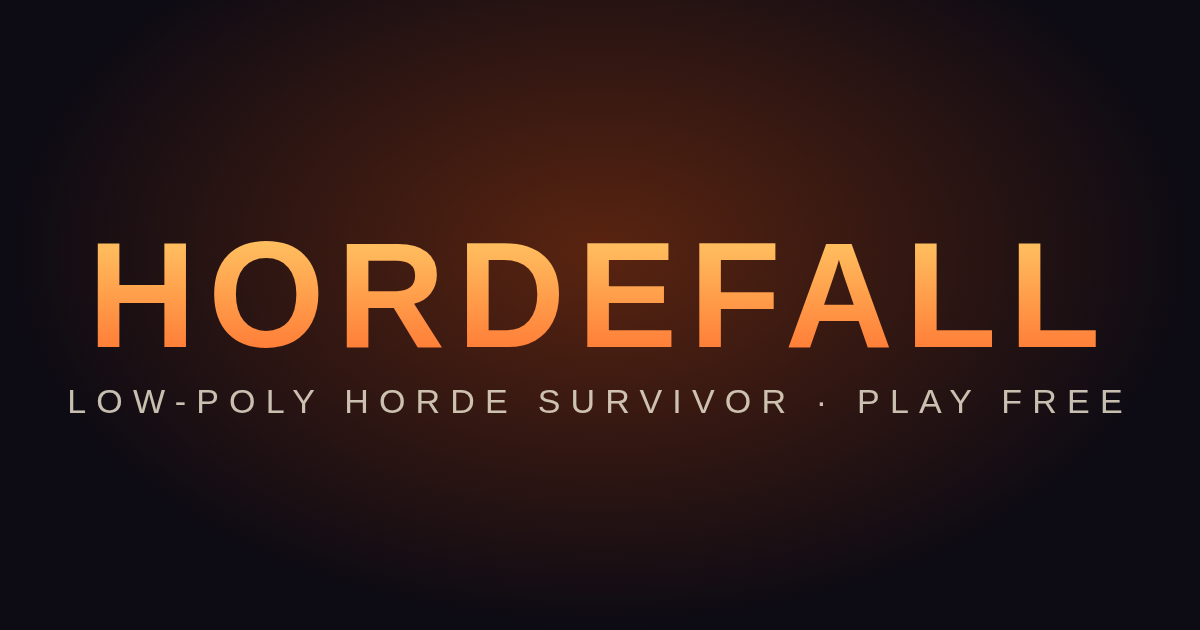
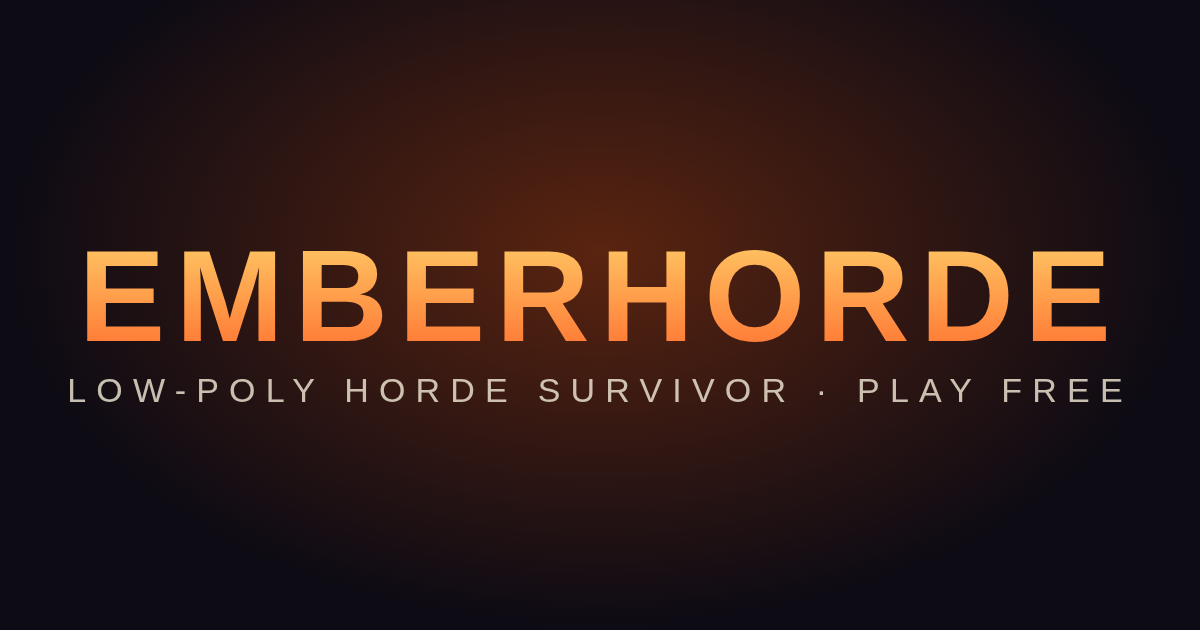
Rename to EMBERHORDE

diff --git a/src/shell/main.js b/src/shell/main.js
@@ -2,8 +2,8 @@ import './shell.css';
 const $ = (h) => { const t = document.createElement('template'); t.innerHTML = h.trim(); return t.content.firstChild; };
 const root = document.getElementById('shell');
 const DEF = { volume: 0.8, music: 0.7, sfx: 0.9, quality: 'med', shake: true };
-let settings = { ...DEF, ...JSON.parse(localStorage.getItem('hf-settings') || '{}') };
-const save = () => localStorage.setItem('hf-settings', JSON.stringify(settings));
+let settings = { ...DEF, ...JSON.parse(localStorage.getItem('eh-settings') || '{}') };
+const save = () => localStorage.setItem('eh-settings', JSON.stringify(settings));
 const input = { move: { x: 0, y: 0 }, touch: matchMedia('(pointer:coarse)').matches };
 if (input.touch) document.body.classList.add('touch');
 window.__input = input;
@@ -14,8 +14,8 @@ const mk = (cls, html) => { const e = $(`<div class="screen ${cls}">${html}</div
 const show = (...s) => { for (const e of Object.values(screens)) e.classList.add('hidden'); s.forEach(e => screens[e].classList.remove('hidden')); };
 
 const screens = {
-  loading: mk('', `<h1>HORDEFALL</h1><div class="bar"><i></i></div><div class="tag" id="ltxt">Loading…</div>`),
-  menu: mk('hidden', `<h1>HORDEFALL</h1><p class="tag">Survive the night</p>
+  loading: mk('', `<h1>EMBERHORDE</h1><div class="bar"><i></i></div><div class="tag" id="ltxt">Loading…</div>`),
+  menu: mk('hidden', `<h1>EMBERHORDE</h1><p class="tag">Survive the night</p>
     <button class="btn primary" data-a="play">Play</button><button class="btn" data-a="coop">Co-op</button>
     <button class="btn" data-a="settings">Settings</button><button class="btn" data-a="credits">Credits</button>
     <div class="hints" id="hints"></div>`),
@@ -29,7 +29,7 @@ const screens = {
   credits: mk('hidden', `<div class="panel"><h2>Credits</h2><p>Made by a studio of 15 AI agents.<br>Built with Three.js &amp; Vite.<br>Assets: see in-repo CREDITS.md.</p><button class="btn" data-a="back">Back</button></div>`),
   pause: mk('hidden clear', `<h2>Paused</h2><button class="btn primary" data-a="resume">Resume</button><button class="btn" data-a="psettings">Settings</button><button class="btn" data-a="quit">Quit to menu</button>`),
   over: mk('hidden clear', `<h1 style="font-size:64px">You fell</h1><p class="tag" id="score"></p><button class="btn primary" data-a="play">Try again</button><button class="btn" data-a="quit">Menu</button>`),
-  nogl: mk('hidden', `<h1>HORDEFALL</h1><p class="err">Your browser can't run WebGL, which this game needs. Try a recent Chrome, Firefox, Edge or Safari, and make sure hardware acceleration is enabled.</p>`),
+  nogl: mk('hidden', `<h1>EMBERHORDE</h1><p class="err">Your browser can't run WebGL, which this game needs. Try a recent Chrome, Firefox, Edge or Safari, and make sure hardware acceleration is enabled.</p>`),
 };
 const pauseBtn = $('<button id="pausebtn" aria-label="Pause">❚❚</button>'); root.appendChild(pauseBtn);
 const stick = $('<div id="stick"><b></b></div>'); root.appendChild(stick);

diff --git a/index.html b/index.html
@@ -3,17 +3,17 @@
 <head>
 <meta charset="utf-8">
 <meta name="viewport" content="width=device-width,initial-scale=1,viewport-fit=cover,user-scalable=no">
-<title>HORDEFALL — Low-poly horde survivor roguelite</title>
+<title>EMBERHORDE — Low-poly horde survivor roguelite</title>
 <meta name="description" content="Survive endless waves in a low-poly world. Build your loadout, evolve your weapons, play solo or co-op — free in your browser.">
 <meta name="theme-color" content="#0d0b14">
 <link rel="icon" href="/favicon.svg" type="image/svg+xml">
 <meta property="og:type" content="website">
-<meta property="og:title" content="HORDEFALL — Low-poly horde survivor roguelite">
+<meta property="og:title" content="EMBERHORDE — Low-poly horde survivor roguelite">
 <meta property="og:description" content="Survive endless waves. Solo or co-op, free in your browser.">
 <meta property="og:image" content="/social.png">
 <meta property="og:image:width" content="1200"><meta property="og:image:height" content="630">
 <meta name="twitter:card" content="summary_large_image">
-<meta name="twitter:title" content="HORDEFALL">
+<meta name="twitter:title" content="EMBERHORDE">
 <meta name="twitter:description" content="Low-poly horde survivor roguelite. Play free in your browser.">
 <meta name="twitter:image" content="/social.png">
 <link rel="stylesheet" href="/src/shell/shell.css">
@@ -21,7 +21,7 @@
 <body>
 <div id="game"></div>
 <div id="shell"></div>
-<noscript><p style="color:#fff;padding:2em">HORDEFALL needs JavaScript enabled.</p></noscript>
+<noscript><p style="color:#fff;padding:2em">EMBERHORDE needs JavaScript enabled.</p></noscript>
 <script type="module" src="/src/shell/main.js"></script>
 </body>
 </html>
